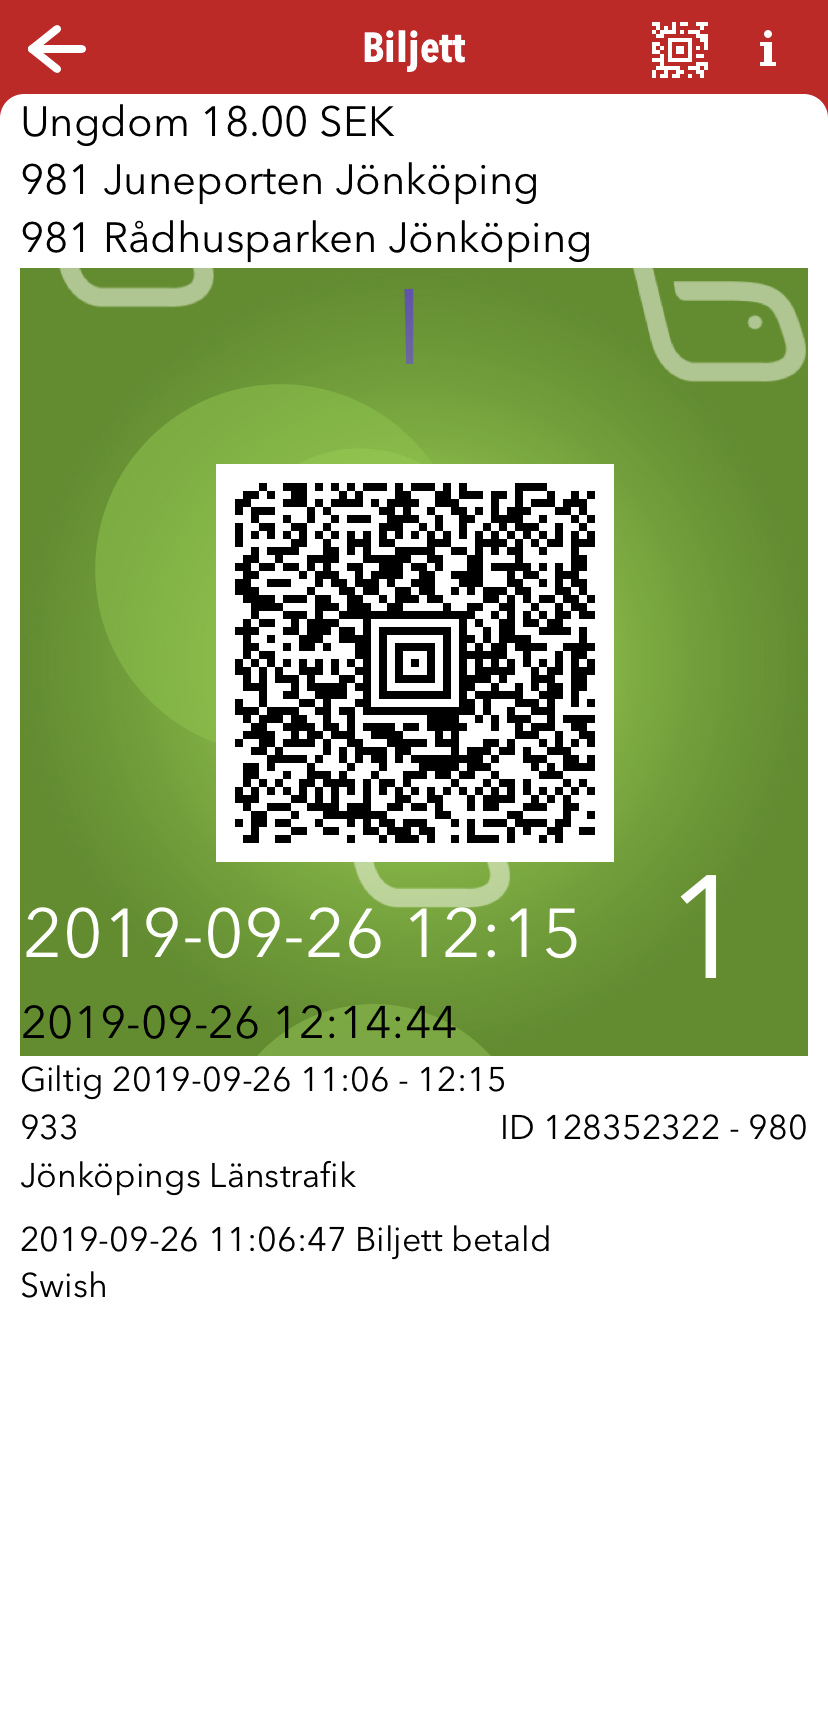
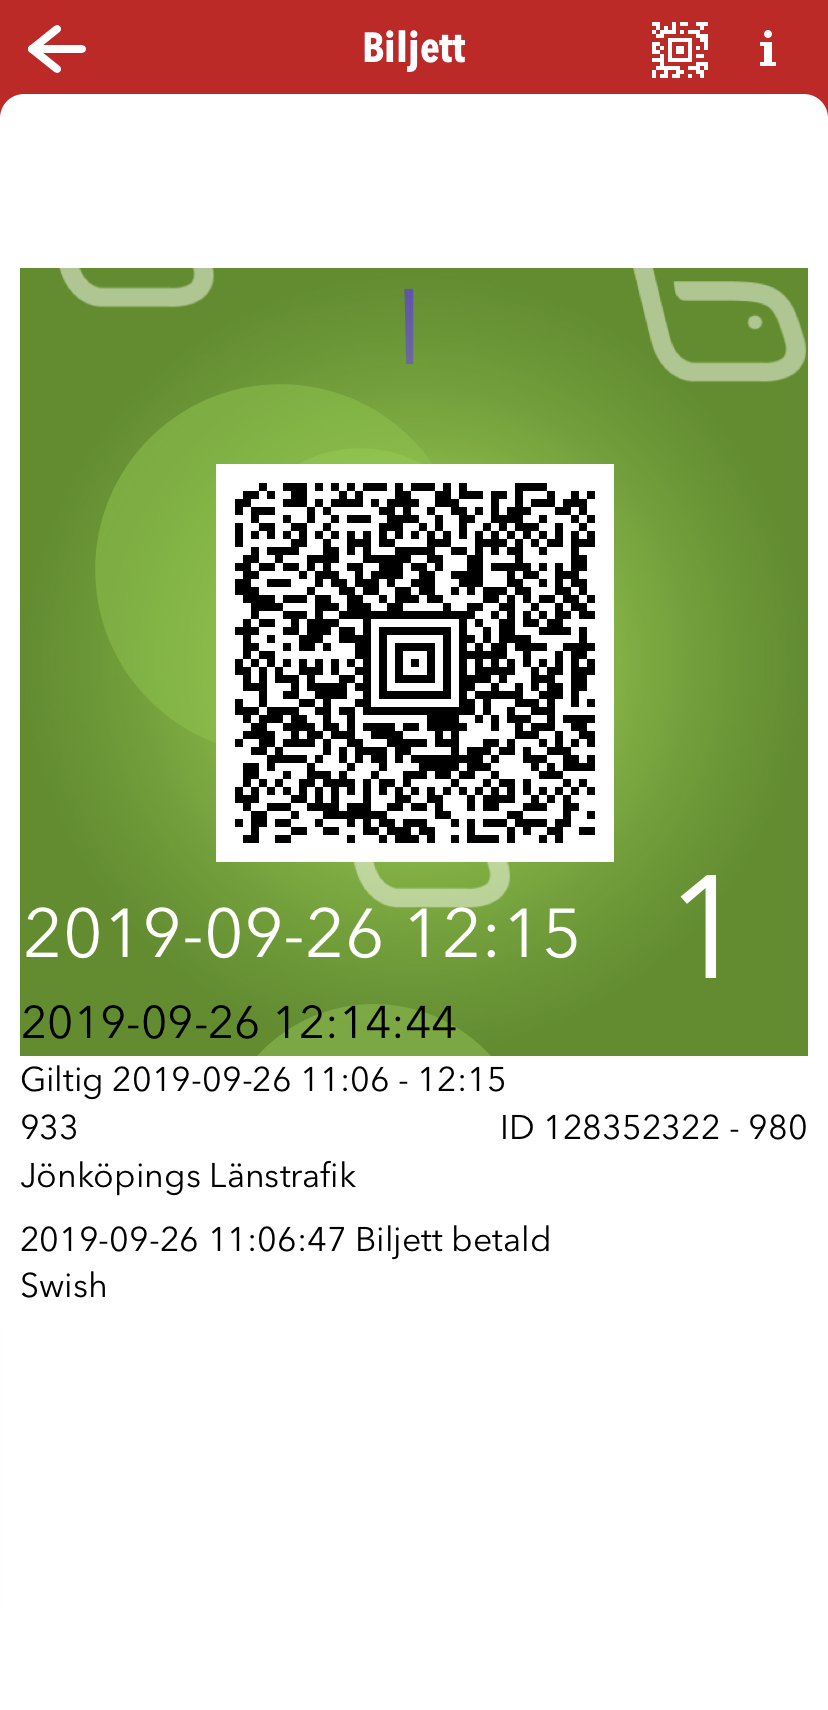
Add files via upload

Changed region(s): [[0.0302, 0.062, 0.7246, 0.155]]

diff --git a/index.html b/index.html
@@ -1,14 +1,216 @@
 <!DOCTYPE html>
 <html>
 <head>
-	<title></title>
+	<!--Fonts-->
+	<link href="https://fonts.googleapis.com/css?family=Gothic+A1|Sawarabi+Gothic&display=swap" rel="stylesheet">
+	
+	<title>JLT</title>
 </head>
 <body>
-	<p class="JLTFont from debug">981 Juneporten Jönköping</p>
-	<p class="JLTFont destination debug">981 Nässjö Resecentrum</p>
-
-
+	
 <img src="jlt.png">
+	<p class="mediumFont JLTFont" style="transform: translate(25px, -1965px);">Ungdom 18:00 SEK</p>
+
+	<p class="JLTFont from mediumFont" style="transform: translate(25px, -2030px);">981 Juneporten Jönköping</p>
+	<p class="JLTFont destination mediumFont" style="transform: translate(25px, -2100px);">981 Nässjö Resecentrum</p>
+	<p id="ID_date_clock" class="JLTFont biggerFont debug">Date</p>
+	<!--Updating timer-->
+	<p class="mediumFont debug">Updating timer</p>
+	<p class="smallFont debug">Giltig</p>
+	<p class="smallFont debug">933</p>
+
+<script>
+var d = new Date();
+
+var currentHour = d.getHours();
+var currentMinute = d.getMinutes();
+
+var oneHourInFuture;
+var tenMinutesInFuture;
+
+if (currentHour == 0)
+	oneHourInFuture = 1;
+if (currentHour == 1)
+	oneHourInFuture = currentHour+1;
+if (currentHour == 2)
+	oneHourInFuture = currentHour+1;
+if (currentHour == 3)
+	oneHourInFuture = currentHour+1;
+if (currentHour == 4)
+	oneHourInFuture = currentHour+1;
+if (currentHour == 5)
+	oneHourInFuture = currentHour+1;
+if (currentHour == 6)
+	oneHourInFuture = currentHour+1;
+if (currentHour == 7)
+	oneHourInFuture = currentHour+1;
+if (currentHour == 8)
+	oneHourInFuture = currentHour+1;
+if (currentHour == 9)
+	oneHourInFuture = currentHour+1;
+if (currentHour == 10)
+	oneHourInFuture = currentHour+1;
+if (currentHour == 11)
+	oneHourInFuture = currentHour+1;
+if (currentHour == 12)
+	oneHourInFuture = currentHour+1;
+if (currentHour == 13)
+	oneHourInFuture = currentHour+1;
+if (currentHour == 14)
+	oneHourInFuture = currentHour+1;
+if (currentHour == 15)
+	oneHourInFuture = currentHour+1;
+if (currentHour == 16)
+	oneHourInFuture = currentHour+1;
+if (currentHour == 17)
+	oneHourInFuture = currentHour+1;
+if (currentHour == 18)
+	oneHourInFuture = currentHour+1;
+if (currentHour == 19)
+	oneHourInFuture = currentHour+1;
+if (currentHour == 20)
+	oneHourInFuture = currentHour+1;
+if (currentHour == 21)
+	oneHourInFuture = currentHour+1;
+if (currentHour == 22)
+	oneHourInFuture = currentHour+1;
+if (currentHour == 23)
+	oneHourInFuture = 0;
+
+if (currentMinute == 0)
+	tenMinutesInFuture = currentMinute+10;
+if (currentMinute == 1)
+	tenMinutesInFuture = 12;
+if (currentMinute == 2)
+	tenMinutesInFuture = currentMinute+10;
+if (currentMinute == 3)
+	tenMinutesInFuture = 13;
+if (currentMinute == 4)
+	tenMinutesInFuture = currentMinute+10;
+if (currentMinute == 5)
+	tenMinutesInFuture = currentMinute+10;
+if (currentMinute == 6)
+	tenMinutesInFuture = currentMinute+10;
+if (currentMinute == 7)
+	tenMinutesInFuture = currentMinute+10;
+if (currentMinute == 8)
+	tenMinutesInFuture = currentMinute+10;
+if (currentMinute == 9)
+	tenMinutesInFuture = currentMinute+10;
+if (currentMinute == 10)
+	tenMinutesInFuture = currentMinute+10;
+if (currentMinute == 11)
+	tenMinutesInFuture = currentMinute+10;
+if (currentMinute == 12)
+	tenMinutesInFuture = currentMinute+10;
+if (currentMinute == 13)
+	tenMinutesInFuture = currentMinute+10;
+if (currentMinute == 14)
+	tenMinutesInFuture = currentMinute+10;
+if (currentMinute == 15)
+	tenMinutesInFuture = currentMinute+10;
+if (currentMinute == 16)
+	tenMinutesInFuture = currentMinute+10;
+if (currentMinute == 17)
+	tenMinutesInFuture = currentMinute+10;
+if (currentMinute == 18)
+	tenMinutesInFuture = currentMinute+10;
+if (currentMinute == 18)
+	tenMinutesInFuture = currentMinute+10;
+if (currentMinute == 19)
+	tenMinutesInFuture = currentMinute+10;
+if (currentMinute == 20)
+	tenMinutesInFuture = currentMinute+10;
+if (currentMinute == 21)
+	tenMinutesInFuture = currentMinute+10;
+if (currentMinute == 22)
+	tenMinutesInFuture = currentMinute+10;
+if (currentMinute == 23)
+	tenMinutesInFuture = currentMinute+10;
+if (currentMinute == 24)
+	tenMinutesInFuture = currentMinute+10;
+if (currentMinute == 25)
+	tenMinutesInFuture = currentMinute+10;
+if (currentMinute == 26)
+	tenMinutesInFuture = currentMinute+10;
+if (currentMinute == 27)
+	tenMinutesInFuture = currentMinute+10;
+if (currentMinute == 28)
+	tenMinutesInFuture = currentMinute+10;
+if (currentMinute == 29)
+	tenMinutesInFuture = currentMinute+10;
+if (currentMinute == 30)
+	tenMinutesInFuture = currentMinute+10;
+if (currentMinute == 31)
+	tenMinutesInFuture = currentMinute+10;
+if (currentMinute == 32)
+	tenMinutesInFuture = currentMinute+10;
+if (currentMinute == 33)
+	tenMinutesInFuture = currentMinute+10;
+if (currentMinute == 34)
+	tenMinutesInFuture = currentMinute+10;
+if (currentMinute == 35)
+	tenMinutesInFuture = currentMinute+10;
+if (currentMinute == 36)
+	tenMinutesInFuture = currentMinute+10;
+if (currentMinute == 37)
+	tenMinutesInFuture = currentMinute+10;
+if (currentMinute == 38)
+	tenMinutesInFuture = currentMinute+10;
+if (currentMinute == 39)
+	tenMinutesInFuture = currentMinute+10;
+if (currentMinute == 40)
+	tenMinutesInFuture = currentMinute+10;
+if (currentMinute == 41)
+	tenMinutesInFuture = currentMinute+10;
+if (currentMinute == 42)
+	tenMinutesInFuture = currentMinute+10;
+if (currentMinute == 43)
+	tenMinutesInFuture = currentMinute+10;
+if (currentMinute == 44)
+	tenMinutesInFuture = currentMinute+10;
+if (currentMinute == 45)
+	tenMinutesInFuture = currentMinute+10;
+if (currentMinute == 46)
+	tenMinutesInFuture = currentMinute+10;
+if (currentMinute == 47)
+	tenMinutesInFuture = currentMinute+10;
+if (currentMinute == 48)
+	tenMinutesInFuture = currentMinute+10;
+if (currentMinute == 49)
+	tenMinutesInFuture = currentMinute+10;
+if (currentMinute == 50)
+	tenMinutesInFuture = currentMinute+10;
+if (currentMinute == 50)
+	tenMinutesInFuture = currentMinute+10;
+if (currentMinute == 51)
+	tenMinutesInFuture = 1;
+if (currentMinute == 52)
+	tenMinutesInFuture = 2;
+if (currentMinute == 53)
+	tenMinutesInFuture = 3;
+if (currentMinute == 54)
+	tenMinutesInFuture = 4;
+if (currentMinute == 55)
+	tenMinutesInFuture = 5;
+if (currentMinute == 56)
+	tenMinutesInFuture = 6;
+if (currentMinute == 57)
+	tenMinutesInFuture = 7;
+if (currentMinute == 58)
+	tenMinutesInFuture = 8;
+if (currentMinute == 59)
+	tenMinutesInFuture = 9;
+if (currentMinute == 0)
+	tenMinutesInFuture = 10;
+
+if (d.getMinutes() <= 9)
+document.getElementById("ID_date_clock").innerHTML = d.getFullYear() + "-"+d.getMonth() + "-" + d.getDate() + " " + oneHourInFuture + ":" + tenMinutesInFuture;
+else 
+document.getElementById("ID_date_clock").innerHTML = d.getFullYear() + "-"+d.getMonth() + "-" + d.getDate() + " " + oneHourInFuture + ":" + tenMinutesInFuture;
+
+
+</script>
 </body>
 </html>
 
@@ -18,21 +220,34 @@
 		width: 100%;
 		height: 100%;
 	}
-
 	.from {
-		font-size: 45px;
-		transform: translate(25px, 380px);
+		/*transform: translate(25px, 380px);*/
+		color: black;
 	}
 	.destination {
 		font-size: 45px;
-		transform: translate(25px, 340px);
+		/*transform: translate(25px, 340px);*/
+		color: black;
 	}
-
+	.JLTFont {
+		    font-family: 'Sawarabi Gothic', sans-serif;
+	}
+	.biggerFont {
+		font-size: 80px;
+	}
+	.mediumFont {
+		font-size: 45px;
+	}
+	.smallFont {
+		font-size: 35px;
+	}
+	.white {
+		color: white;
+	}
+	.black {
+		color: black;
+	}
 	.debug{
 		color: blue;
-	}
-
-	.JLTFont {
-		    font-family: 'Trade Gothic W01 Roman';
 	}
 </style>
